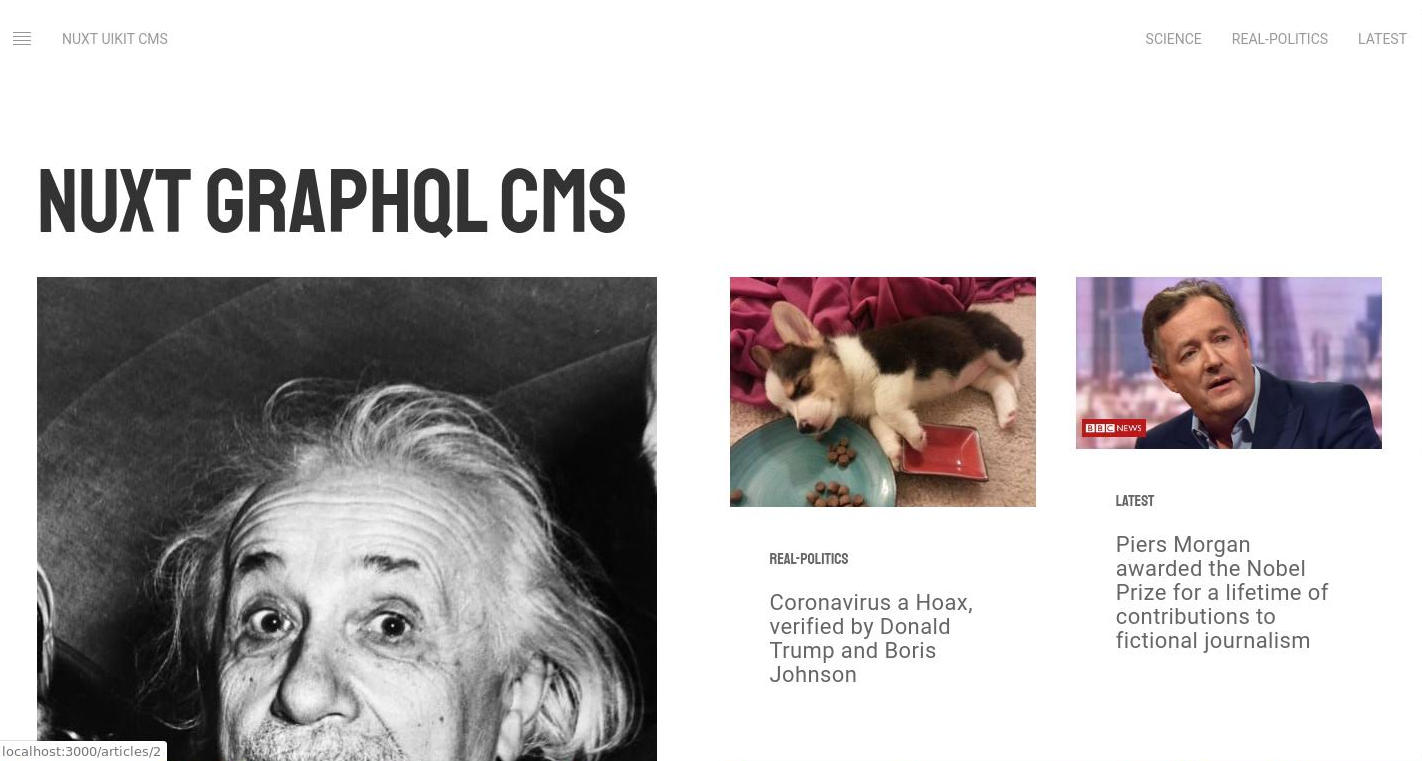
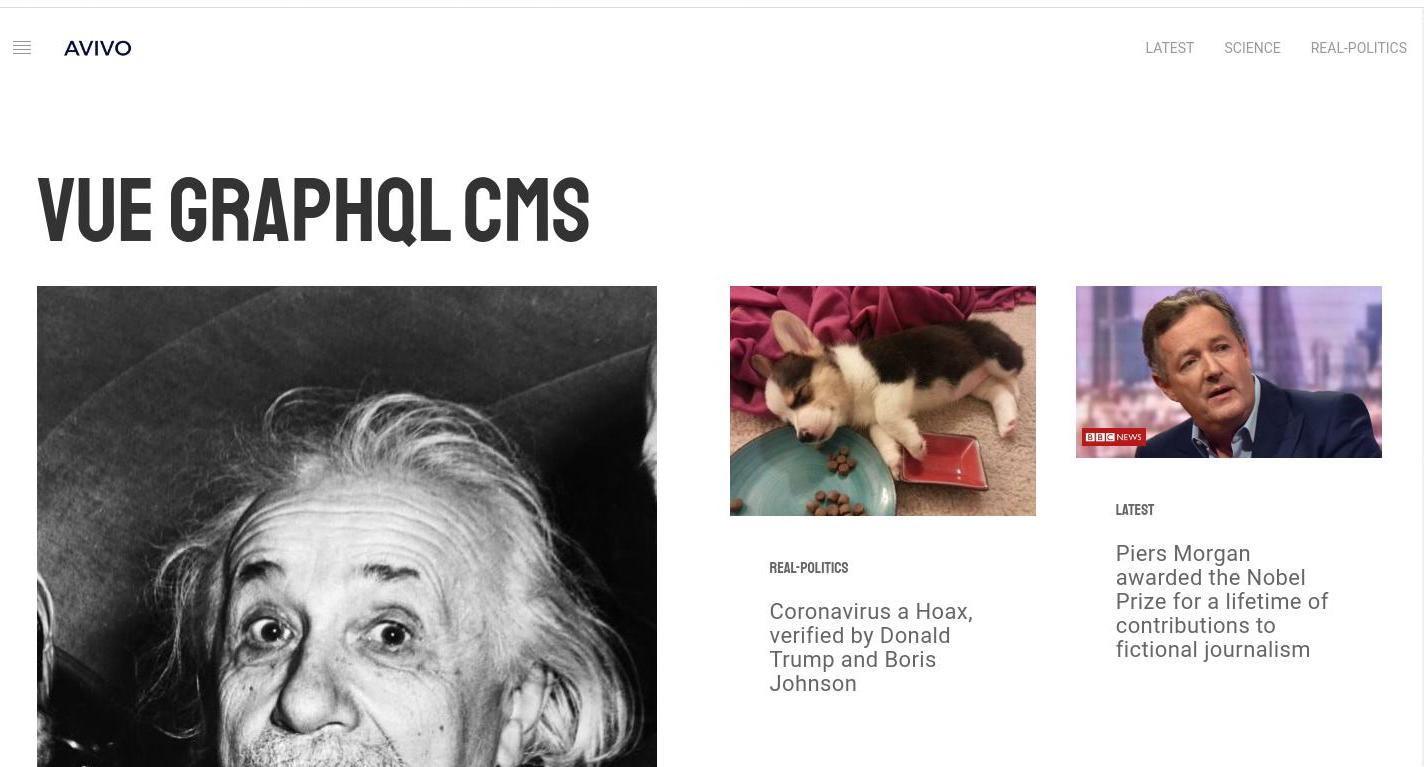
Update

diff --git a/frontend/layouts/default.vue b/frontend/layouts/default.vue
@@ -1,31 +1,36 @@
-<template>
+<template>  
   <div>
+
     <nav class="uk-navbar-container" uk-navbar>
         <div class="uk-navbar-left">
-            <ul class="uk-navbar-nav">
+
+          <ul class="uk-navbar-nav">
               <li><a href="#modal-full" uk-toggle><span uk-icon="icon: table"></span></a></li>
               <li>
-                <a href="/">Nuxt UIKit CMS
-                </a>
+                 <router-link to="/"><img src="logo.png" width="70px" />
+                </router-link>
               </li>
           </ul>
+
         </div>
-         <div class="uk-navbar-right">
+
+        <div class="uk-navbar-right">
           <ul class="uk-navbar-nav">
               <li v-for="category in categories">
                 <router-link :to="{ name: 'categories-id', params: { id: category.id }}" tag="a">{{ category.name }}
                 </router-link>
-              </li>
+              </li> 
           </ul>
         </div>
     </nav>
+
     <div id="modal-full" class="uk-modal-full" uk-modal>
         <div class="uk-modal-dialog">
             <button class="uk-modal-close-full uk-close-large" type="button" uk-close></button>
             <div class="uk-grid-collapse uk-child-width-1-2@s uk-flex-middle" uk-grid>
                 <div class="uk-background-cover" style="background-image: url('https://images.unsplash.com/photo-1493612276216-ee3925520721?ixlib=rb-1.2.1&ixid=eyJhcHBfaWQiOjEyMDd9&auto=format&fit=crop&w=3308&q=80 3308w');" uk-height-viewport></div>
                 <div class="uk-padding-large">
-                    <h1 style="font-family: Staatliches;">Nuxt Vue Graphql CMS</h1>
+                    <h1 style="font-family: Staatliches;">Vue UIKit Graphql CMS</h1>
                     <div class="uk-width-1-2@s">
                         <ul class="uk-nav-primary uk-nav-parent-icon" uk-nav>
                           <li v-for="category in categories">
@@ -34,18 +39,20 @@
                           </li>
                         </ul>
                     </div>
-                    <p class="uk-text-light">Built with Vue JS, Apollo, Strapi, UIKit and a few other goodies</p>
+                    <p class="uk-text-light">Built with Vue JS, UIKit, Nuxt, Apollo &amp; Strapi</p>
                 </div>
             </div>
         </div>
     </div>
-   <nuxt />
+
+    <nuxt />
   </div>
 </template>
-<script>
+
+<script>  
 import categoriesQuery from '~/apollo/queries/category/categories'
 
-export default {
+export default {  
   data() {
     return {
       categories: [],
@@ -59,4 +66,4 @@ export default {
   }
 }
 
-</script>
+</script>  

diff --git a/frontend/pages/articles/_id.vue b/frontend/pages/articles/_id.vue
@@ -1,25 +1,23 @@
-<template>
+<template>  
   <div>
-
-      <div v-if="article.image" id="banner" class="uk-height-small uk-flex uk-flex-center uk-flex-middle uk-background-cover uk-light uk-padding" :data-src="api_url + article.image.url" uk-img>
+   <div v-if="article.image" id="banner" class="uk-height-small uk-flex uk-flex-center uk-flex-middle uk-background-cover uk-light uk-padding" :data-src="api_url + article.image.url" uk-img>
         <h1>{{ article.title }}</h1>
       </div>
 
       <div class="uk-section">
         <div class="uk-container uk-container-small">
-           <div v-if="article.content" id="editor" v-html="$md.render(article.content)"></div>
+            <div v-if="article.content" id="editor" v-html="$md.render(article.content)"></div>  
             <p v-if="article.published_at">{{ moment(article.published_at).format("MMM Do YY") }}</p>
         </div>
       </div>
-
-  </div>
+ </div>
 </template>
 
-<script>
-import articleQuery from '~/apollo/queries/article/article'
+<script>  
+import articleQuery from '~/apollo/queries/article/article'  
 var moment = require('moment')
 
-export default {
+export default {  
   data() {
     return {
       article: {},
@@ -37,4 +35,4 @@ export default {
     }
   }
 }
-</script>
+</script>  

diff --git a/frontend/nuxt.config.js b/frontend/nuxt.config.js
@@ -1,8 +1,8 @@
 
 export default {
-  env: {
-    strapiBaseUri: process.env.API_URL || "http://localhost:1337"
-  },
+  env: {  
+  strapiBaseUri: process.env.API_URL || "http://localhost:1337"
+},
   mode: 'universal',
   /*
   ** Headers of the page
@@ -26,17 +26,17 @@ export default {
   /*
   ** Global CSS
   */
- css: [
-  'uikit/dist/css/uikit.min.css',
-  'uikit/dist/css/uikit.css',
-  '@assets/css/main.css'
-],
+  css: [
+    'uikit/dist/css/uikit.min.css',
+    'uikit/dist/css/uikit.css',
+    '@assets/css/main.css'
+  ],
   /*
   ** Plugins to load before mounting the App
   */
- plugins: [
-  { src: '~/plugins/uikit.js', ssr: false }
-],
+  plugins: [
+     { src: '~/plugins/uikit.js', ssr: false }
+  ],
   /*
   ** Nuxt.js dev-modules
   */
@@ -51,18 +51,18 @@ export default {
     '@nuxtjs/pwa',
   ],
   apollo: {
-    clientConfigs: {
-      default: {
-        httpEndpoint: process.env.BACKEND_URL || "http://localhost:1337/graphql"
-      }
+  clientConfigs: {
+    default: {
+      httpEndpoint: process.env.BACKEND_URL || "http://localhost:1337/graphql"
     }
-  },
-  markdownit: {
+  }
+},
+markdownit: {  
     preset: 'default',
     linkify: true,
     breaks: true,
     injected: true
-  },
+},
   /*
   ** Build configuration
   */

diff --git a/frontend/components/Articles.vue b/frontend/components/Articles.vue
@@ -1,6 +1,5 @@
-<template>
+<template>  
   <div>
-
     <div class="uk-child-width-1-2" uk-grid>
         <div>
           <router-link v-for="article in leftArticles" :to="{ name: 'articles-id', params: {id: article.id} }" class="uk-link-reset" :key="article.id">
@@ -14,7 +13,6 @@
                  </div>
              </div>
          </router-link>
-
         </div>
         <div>
           <div class="uk-child-width-1-2@m uk-grid-match" uk-grid>
@@ -37,11 +35,10 @@
   </div>
 </template>
 
-<script>
-// eslint-disable-next-line no-unused-vars
+<script>  
 import articlesQuery from '~/apollo/queries/article/articles'
 
-export default {
+export default {  
   data() {
     return {
       api_url: process.env.strapiBaseUri
@@ -62,4 +59,4 @@ export default {
     }
   }
 }
-</script>
+</script>  

diff --git a/frontend/pages/categories/_id.vue b/frontend/pages/categories/_id.vue
@@ -1,20 +1,22 @@
-<template>
+<template>  
   <div>
-   <client-only>
+  <client-only>
     <div class="uk-section">
       <div class="uk-container uk-container-large">
         <h1>{{ category.name }}</h1>
+
         <Articles :articles="category.articles || []"></Articles>
+
       </div>
     </div>
   </client-only>
   </div>
 </template>
-<script>
-import articlesQuery from '~/apollo/queries/article/articles-categories'
+<script>  
+import articlesQuery from '~/apollo/queries/article/articles-categories'  
 import Articles from '~/components/Articles'
 
-export default {
+export default {  
   data() {
     return {
       category: []
@@ -33,4 +35,4 @@ export default {
     }
   }
 }
-</script>
+</script>  

diff --git a/frontend/pages/index.vue b/frontend/pages/index.vue
@@ -1,9 +1,9 @@
-<template>
+<template>  
   <div>
 
     <div class="uk-section">
       <div class="uk-container uk-container-large">
-        <h1>Nuxt Graphql CMS</h1>
+        <h1>Vue Graphql CMS</h1>
 
         <Articles :articles="articles"></Articles>
 
@@ -13,11 +13,11 @@
   </div>
 </template>
 
-<script>
-import articlesQuery from '~/apollo/queries/article/articles'
+<script>  
+import articlesQuery from '~/apollo/queries/article/articles'  
 import Articles from '~/components/Articles'
 
-export default {
+export default {  
   data() {
     return {
       articles: [],

diff --git a/frontend/plugins/uikit.js b/frontend/plugins/uikit.js
@@ -1,9 +1,9 @@
 import Vue from 'vue'
 
-import UIkit from 'uikit/dist/js/uikit-core'
+import UIkit from 'uikit/dist/js/uikit-core'  
 import Icons from 'uikit/dist/js/uikit-icons'
 
-UIkit.use(Icons)
+UIkit.use(Icons)  
 UIkit.container = '#__nuxt'
 
-Vue.prototype.$uikit = UIkit
+Vue.prototype.$uikit = UIkit  

diff --git a/frontend/assets/css/main.css b/frontend/assets/css/main.css
@@ -1,8 +1,8 @@
-a {
+a {  
   text-decoration: none;
 }
 
-h1  {
+h1  {  
   font-family: Staatliches;
   font-size: 90px;
 }
@@ -35,7 +35,7 @@ h1  {
   font-family: Staatliches;
 }
 
-img:hover {
+img:hover {  
   opacity: 1;
   transition: opacity 0.25s cubic-bezier(0.39, 0.575, 0.565, 1);
 }

diff --git a/frontend/README.md b/frontend/README.md
@@ -1,8 +1,6 @@
 # frontend
 
-Vue front  end  for the Strapi api/cms
-
-> My super Nuxt.js project
+> My fabulous Nuxt.js project
 
 ## Build Setup
 

diff --git a/backend/README.md b/backend/README.md
@@ -1,3 +1,3 @@
 # Strapi application
 
-Back end api.
+A quick description of your strapi application
